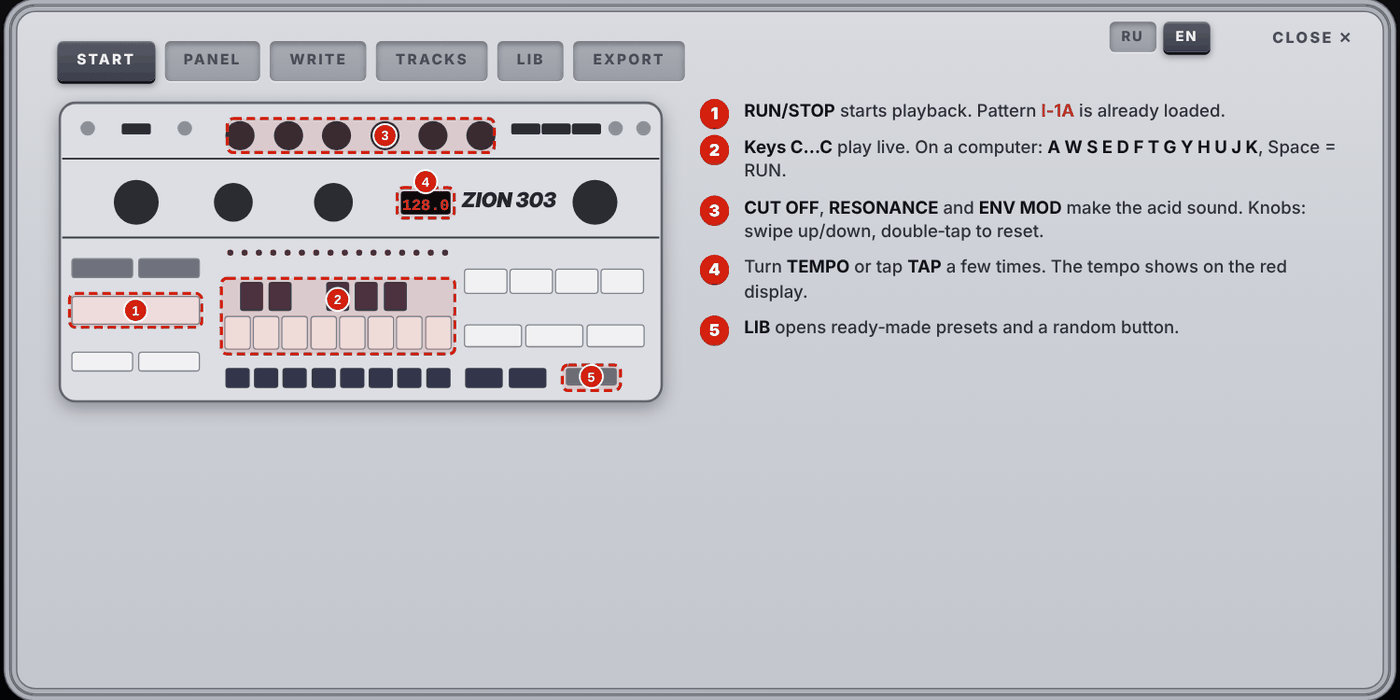
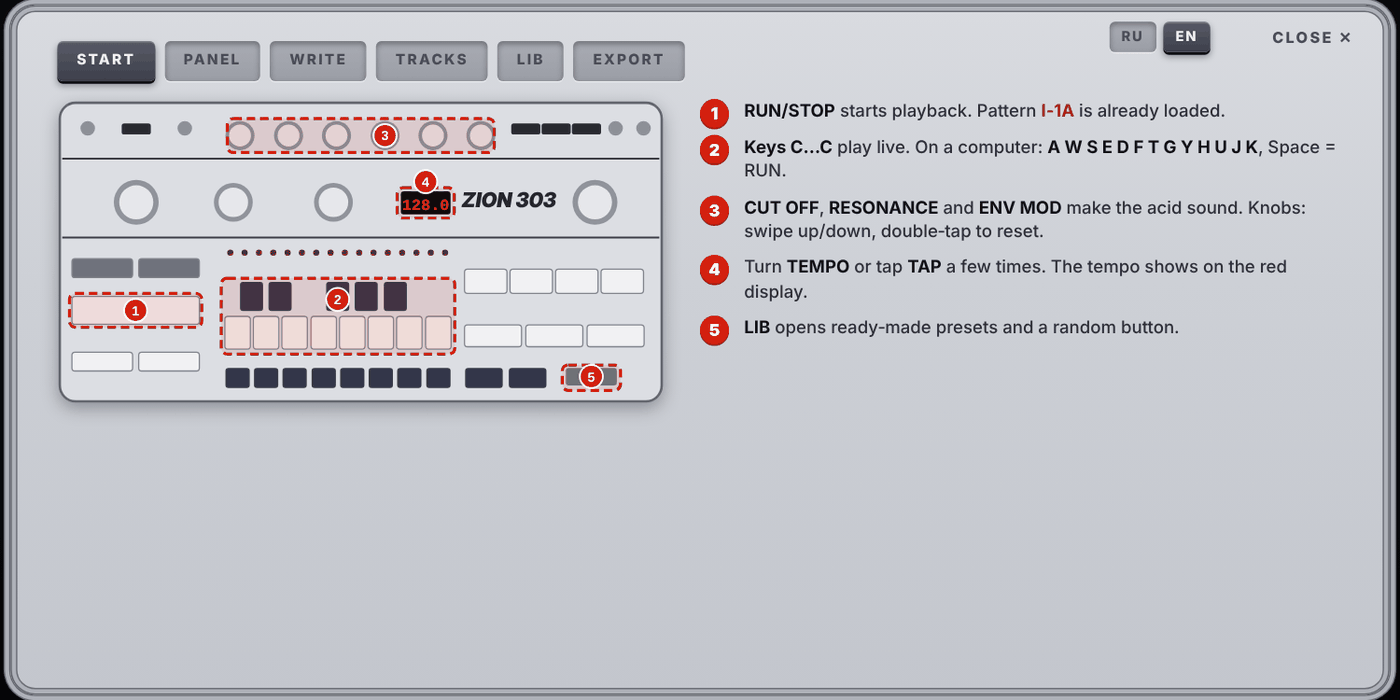
Add files via upload

diff --git a/index.html b/index.html
@@ -1394,11 +1394,11 @@ function schem(marks) {
   let h = '<svg viewBox="0 0 1000 500" class="schem"><rect x="4" y="4" width="992" height="492" rx="26" fill="#dcdee3" stroke="#62656d" stroke-width="4"/>' +
     '<line x1="8" x2="992" y1="96" y2="96" stroke="#3b3c42" stroke-width="3"/><line x1="8" x2="992" y1="226" y2="226" stroke="#3b3c42" stroke-width="3"/>';
   const circ = (x, y, r, f) => '<circle cx="' + x + '" cy="' + y + '" r="' + r + '" fill="' + (f || '#2a2c32') + '"/>';
-  [301, 381, 460, 540, 619, 698].forEach(x => { h += circ(x, 58, 24); });
+  [301, 381, 460, 540, 619, 698].forEach(x => { h += circ(x, 58, 24, '#8f929b') + circ(x, 58, 18, '#e6e7ea'); });
   [130, 772, 822, 872].forEach(x => { h += '<rect x="' + (x - 24) + '" y="38" width="48" height="18" rx="4" fill="#2a2c32"/>'; });
   [50, 210, 920, 966].forEach(x => { h += circ(x, 46, 12, '#8d909a'); });
   h += '<text x="744" y="176" text-anchor="middle" font-family="ZionMark,Helvetica,Arial" font-weight="900" font-style="italic" font-size="34" fill="#25262a">ZION 303</text>';
-  [[130, 168, 37], [290, 168, 32], [455, 168, 32], [886, 168, 37]].forEach(k => { h += circ(k[0], k[1], k[2]); });
+  [[130, 168, 37], [290, 168, 32], [455, 168, 32], [886, 168, 37]].forEach(k => { h += circ(k[0], k[1], k[2], '#8f929b') + circ(k[0], k[1], k[2] * 0.76, '#e6e7ea'); });
   h += '<rect x="566" y="150" width="82" height="38" rx="5" fill="#120707"/><text x="607" y="180" text-anchor="middle" font-family="Courier New,monospace" font-weight="700" font-size="26" fill="#ff5436">128.0</text>';
   [[24, 261, 100, 31, '#6f727d'], [134, 261, 100, 31, '#6f727d'], [24, 323, 210, 46, '#f1f1f3'], [24, 415, 100, 31, '#f1f1f3'], [134, 415, 100, 31, '#f1f1f3']]
     .forEach(r => { h += '<rect x="' + r[0] + '" y="' + r[1] + '" width="' + r[2] + '" height="' + r[3] + '" rx="5" fill="' + r[4] + '" stroke="#80838b" stroke-width="2"/>'; });
@@ -1417,8 +1417,11 @@ function schem(marks) {
 }
 function modeSvg() {
   const pos = [[-135, 'TRACK WRITE', 'нижний левый'], [-45, 'TRACK PLAY', 'верхний левый'], [45, 'PATTERN PLAY', 'верхний правый'], [135, 'PATTERN WRITE', 'нижний правый']];
-  let h = '<svg viewBox="0 0 300 200" class="modesvg"><circle cx="150" cy="100" r="40" fill="#2a2c32"/><circle cx="150" cy="100" r="29" fill="#44464e"/>' +
-    '<polygon points="150,66 156,92 144,92" fill="#f4f3ee" transform="rotate(135 150 100)"/>';
+  let h = '<svg viewBox="-5 0 320 200" class="modesvg"><defs><radialGradient id="mk" cx=".4" cy=".35" r=".8"><stop offset="0" stop-color="#fafafa"/><stop offset="1" stop-color="#b4b7bf"/></radialGradient></defs>' +
+    '<circle cx="150" cy="104" r="42" fill="#000" opacity=".25"/><circle cx="150" cy="100" r="41" fill="#8f929b"/>' +
+    '<circle cx="150" cy="100" r="36.5" fill="none" stroke="#555861" stroke-width="7" stroke-dasharray="1.6 2.2"/>' +
+    '<circle cx="150" cy="100" r="31" fill="url(#mk)" stroke="#9a9da6" stroke-width="1.5"/>' +
+    '<line x1="150" y1="100" x2="150" y2="76" stroke="#25262a" stroke-width="4.5" stroke-linecap="round" transform="rotate(135 150 100)"/>';
   pos.forEach((p, i) => {
     const a = p[0] * Math.PI / 180, x = 150 + 56 * Math.sin(a), y = 100 - 56 * Math.cos(a);
     const tx = 150 + 64 * Math.sin(a), ty = 100 - 64 * Math.cos(a);

diff --git a/src/js/80-tutorial.js b/src/js/80-tutorial.js
@@ -4,11 +4,11 @@ function schem(marks) {
   let h = '<svg viewBox="0 0 1000 500" class="schem"><rect x="4" y="4" width="992" height="492" rx="26" fill="#dcdee3" stroke="#62656d" stroke-width="4"/>' +
     '<line x1="8" x2="992" y1="96" y2="96" stroke="#3b3c42" stroke-width="3"/><line x1="8" x2="992" y1="226" y2="226" stroke="#3b3c42" stroke-width="3"/>';
   const circ = (x, y, r, f) => '<circle cx="' + x + '" cy="' + y + '" r="' + r + '" fill="' + (f || '#2a2c32') + '"/>';
-  [301, 381, 460, 540, 619, 698].forEach(x => { h += circ(x, 58, 24); });
+  [301, 381, 460, 540, 619, 698].forEach(x => { h += circ(x, 58, 24, '#8f929b') + circ(x, 58, 18, '#e6e7ea'); });
   [130, 772, 822, 872].forEach(x => { h += '<rect x="' + (x - 24) + '" y="38" width="48" height="18" rx="4" fill="#2a2c32"/>'; });
   [50, 210, 920, 966].forEach(x => { h += circ(x, 46, 12, '#8d909a'); });
   h += '<text x="744" y="176" text-anchor="middle" font-family="ZionMark,Helvetica,Arial" font-weight="900" font-style="italic" font-size="34" fill="#25262a">ZION 303</text>';
-  [[130, 168, 37], [290, 168, 32], [455, 168, 32], [886, 168, 37]].forEach(k => { h += circ(k[0], k[1], k[2]); });
+  [[130, 168, 37], [290, 168, 32], [455, 168, 32], [886, 168, 37]].forEach(k => { h += circ(k[0], k[1], k[2], '#8f929b') + circ(k[0], k[1], k[2] * 0.76, '#e6e7ea'); });
   h += '<rect x="566" y="150" width="82" height="38" rx="5" fill="#120707"/><text x="607" y="180" text-anchor="middle" font-family="Courier New,monospace" font-weight="700" font-size="26" fill="#ff5436">128.0</text>';
   [[24, 261, 100, 31, '#6f727d'], [134, 261, 100, 31, '#6f727d'], [24, 323, 210, 46, '#f1f1f3'], [24, 415, 100, 31, '#f1f1f3'], [134, 415, 100, 31, '#f1f1f3']]
     .forEach(r => { h += '<rect x="' + r[0] + '" y="' + r[1] + '" width="' + r[2] + '" height="' + r[3] + '" rx="5" fill="' + r[4] + '" stroke="#80838b" stroke-width="2"/>'; });
@@ -27,8 +27,11 @@ function schem(marks) {
 }
 function modeSvg() {
   const pos = [[-135, 'TRACK WRITE', 'нижний левый'], [-45, 'TRACK PLAY', 'верхний левый'], [45, 'PATTERN PLAY', 'верхний правый'], [135, 'PATTERN WRITE', 'нижний правый']];
-  let h = '<svg viewBox="0 0 300 200" class="modesvg"><circle cx="150" cy="100" r="40" fill="#2a2c32"/><circle cx="150" cy="100" r="29" fill="#44464e"/>' +
-    '<polygon points="150,66 156,92 144,92" fill="#f4f3ee" transform="rotate(135 150 100)"/>';
+  let h = '<svg viewBox="-5 0 320 200" class="modesvg"><defs><radialGradient id="mk" cx=".4" cy=".35" r=".8"><stop offset="0" stop-color="#fafafa"/><stop offset="1" stop-color="#b4b7bf"/></radialGradient></defs>' +
+    '<circle cx="150" cy="104" r="42" fill="#000" opacity=".25"/><circle cx="150" cy="100" r="41" fill="#8f929b"/>' +
+    '<circle cx="150" cy="100" r="36.5" fill="none" stroke="#555861" stroke-width="7" stroke-dasharray="1.6 2.2"/>' +
+    '<circle cx="150" cy="100" r="31" fill="url(#mk)" stroke="#9a9da6" stroke-width="1.5"/>' +
+    '<line x1="150" y1="100" x2="150" y2="76" stroke="#25262a" stroke-width="4.5" stroke-linecap="round" transform="rotate(135 150 100)"/>';
   pos.forEach((p, i) => {
     const a = p[0] * Math.PI / 180, x = 150 + 56 * Math.sin(a), y = 100 - 56 * Math.cos(a);
     const tx = 150 + 64 * Math.sin(a), ty = 100 - 64 * Math.cos(a);
